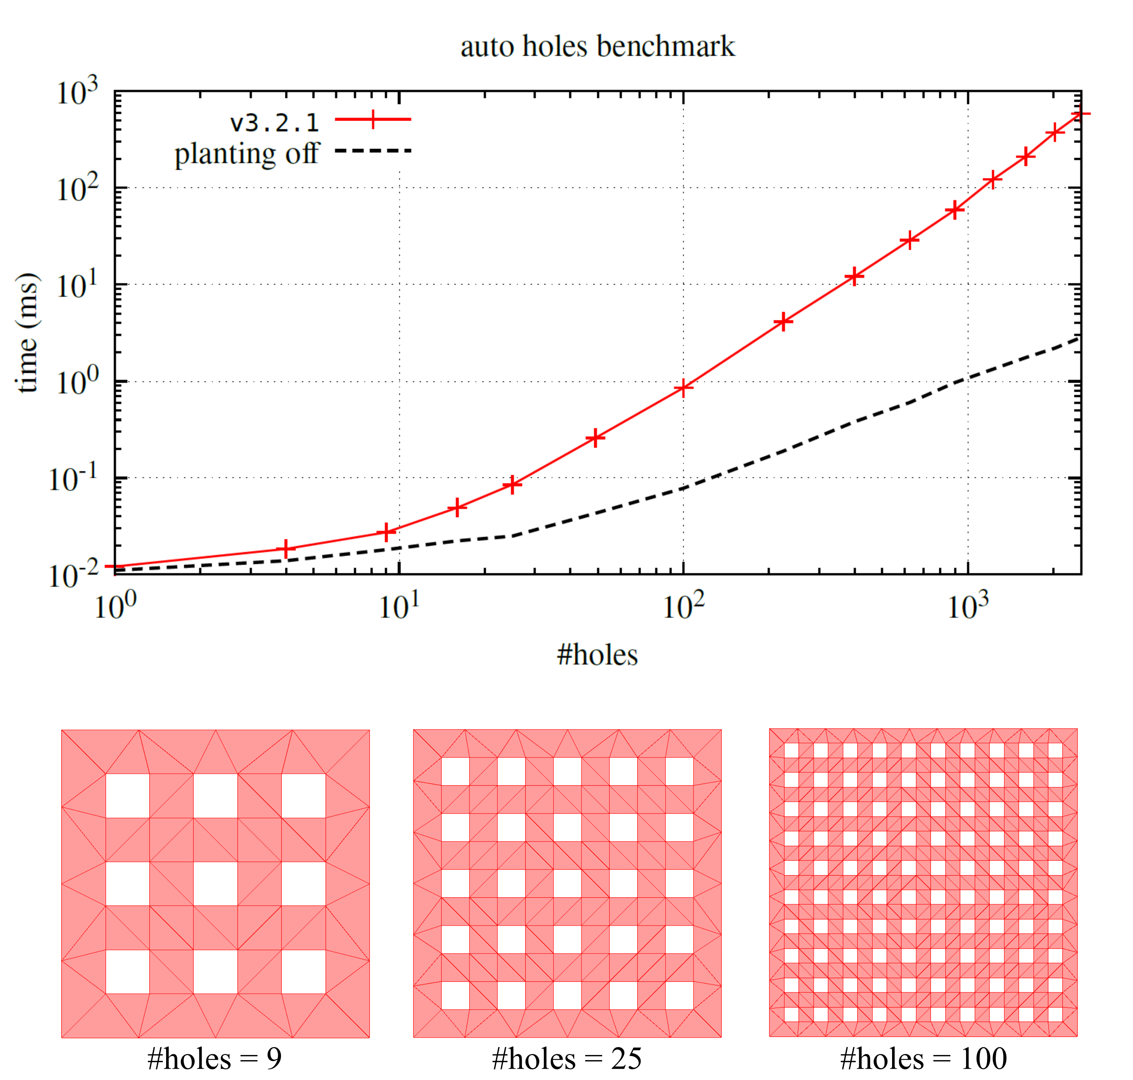
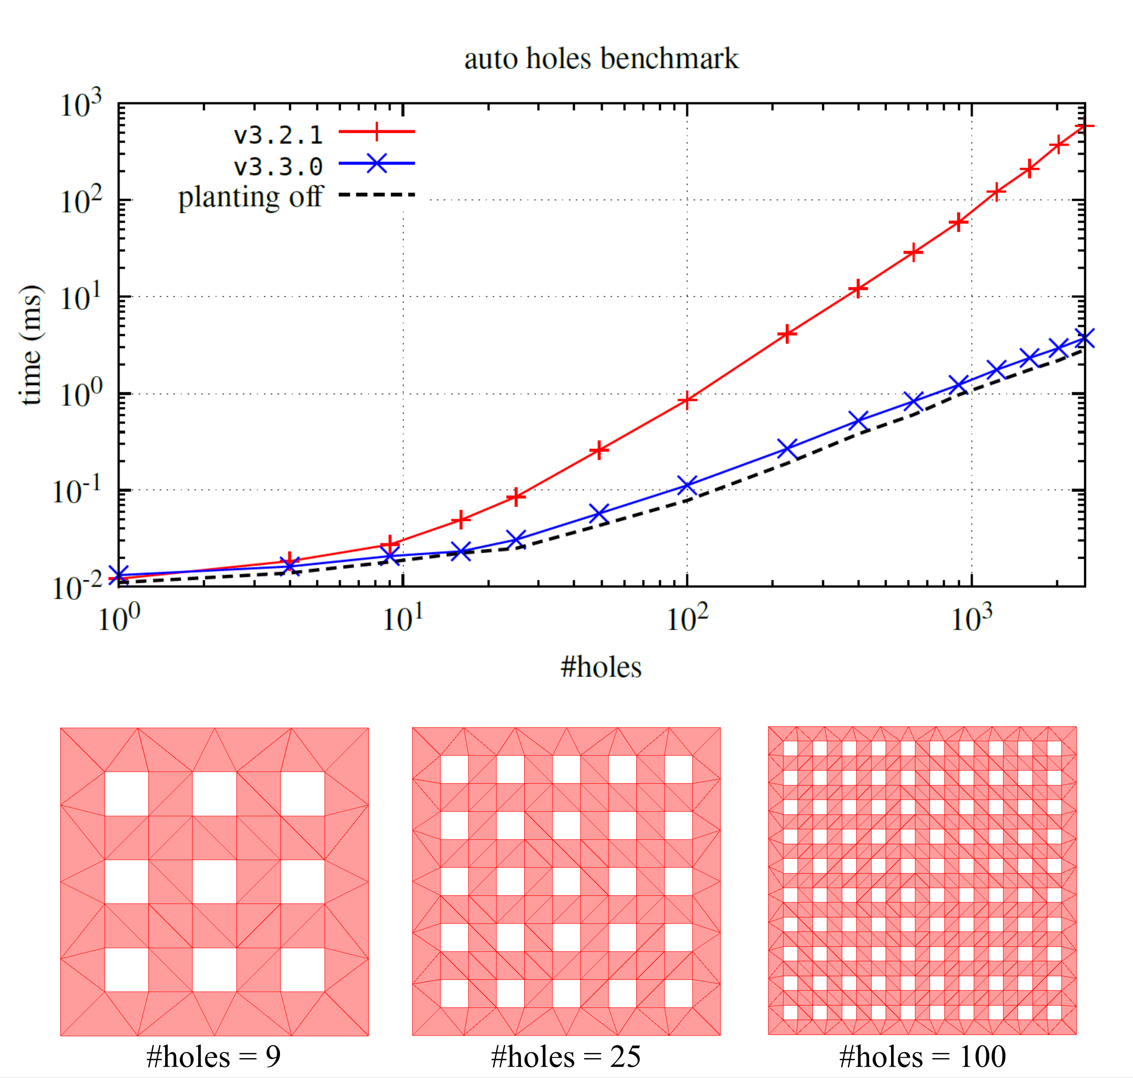
perf: faster planting holes

diff --git a/Runtime/Triangulator.cs b/Runtime/Triangulator.cs
@@ -1999,11 +1999,11 @@ namespace andywiecko.BurstTriangulator.LowLevel.Unsafe
             private NativeList<int> halfedges;
 
             private NativeArray<bool> visitedTriangles;
-            private NativeList<int> badTriangles;
             private NativeQueue<int> trianglesQueue;
             private NativeArray<T2> holes;
 
             private readonly Args args;
+            private bool anyTriangleVisited;
 
             public PlantingSeedStep(InputData<T2> input, OutputData<T2> output, Args args) : this(output, args, input.HoleSeeds) { }
 
@@ -2018,8 +2018,9 @@ namespace andywiecko.BurstTriangulator.LowLevel.Unsafe
                 this.args = args;
 
                 visitedTriangles = default;
-                badTriangles = default;
                 trianglesQueue = default;
+
+                anyTriangleVisited = false;
             }
 
             public void Execute(Allocator allocator, bool constraintsIsCreated)
@@ -2032,14 +2033,13 @@ namespace andywiecko.BurstTriangulator.LowLevel.Unsafe
                 using var _ = Markers.PlantingSeedStep.Auto();
 
                 visitedTriangles = new(triangles.Length / 3, allocator);
-                badTriangles = new(triangles.Length / 3, allocator);
                 trianglesQueue = new(allocator);
 
                 if (args.AutoHolesAndBoundary) PlantAuto(allocator);
                 if (holes.IsCreated) PlantHoleSeeds(holes);
                 if (args.RestoreBoundary) PlantBoundarySeeds();
 
-                Finish();
+                RemoveVisitedTriangles(allocator);
             }
 
             private void PlantBoundarySeeds()
@@ -2067,40 +2067,58 @@ namespace andywiecko.BurstTriangulator.LowLevel.Unsafe
                 }
             }
 
-            private void Finish()
+            private void RemoveVisitedTriangles(Allocator allocator)
             {
-                badTriangles.Sort();
-                for (int t = badTriangles.Length - 1; t >= 0; t--)
+                if (!anyTriangleVisited)
                 {
-                    var tId = badTriangles[t];
-                    triangles.RemoveAt(3 * tId + 2);
-                    triangles.RemoveAt(3 * tId + 1);
-                    triangles.RemoveAt(3 * tId + 0);
-                    RemoveHalfedge(3 * tId + 2, 0);
-                    RemoveHalfedge(3 * tId + 1, 1);
-                    RemoveHalfedge(3 * tId + 0, 2);
-                    constrainedHalfedges.RemoveAt(3 * tId + 2);
-                    constrainedHalfedges.RemoveAt(3 * tId + 1);
-                    constrainedHalfedges.RemoveAt(3 * tId + 0);
+                    return;
+                }
 
-                    for (int i = 3 * tId; i < halfedges.Length; i++)
+                // Triangles to remove are marked with -1, otherwise they are assigned with incremental id.
+                var map = new NativeArray<int>(triangles.Length / 3, allocator);
+                var count = 0;
+                for (int tId = 0; tId < visitedTriangles.Length; tId++)
+                {
+                    map[tId] = visitedTriangles[tId] ? -1 : count++;
+                }
+
+                int RemapHalfedge(int ohe)
+                {
+                    if (ohe == -1)
                     {
-                        var he = halfedges[i];
-                        if (he == -1)
-                        {
-                            continue;
-                        }
-                        halfedges[he < 3 * tId ? he : i] -= 3;
+                        return -1;
+                    }
+                    var tId = map[ohe / 3];
+                    return tId == -1 ? -1 : 3 * tId + ohe % 3;
+                }
+
+                // Reinterpret to a larger struct to make copies of whole triangles slightly more efficient
+                var constrainedHalfedges3 = constrainedHalfedges.AsArray().Reinterpret<bool3>(1);
+                var triangles3 = triangles.AsArray().Reinterpret<int3>(4);
+
+                for (int tId = 0; tId < map.Length; tId++)
+                {
+                    var tIdNew = map[tId];
+                    if (tIdNew != -1)
+                    {
+                        triangles3[tIdNew] = triangles3[tId];
+                        constrainedHalfedges3[tIdNew] = constrainedHalfedges3[tId];
+                        halfedges[3 * tIdNew + 0] = RemapHalfedge(ohe: halfedges[3 * tId + 0]);
+                        halfedges[3 * tIdNew + 1] = RemapHalfedge(ohe: halfedges[3 * tId + 1]);
+                        halfedges[3 * tIdNew + 2] = RemapHalfedge(ohe: halfedges[3 * tId + 2]);
                     }
                 }
+
+                // Trim the data to reflect removed triangles.
+                triangles.Length = 3 * count;
+                constrainedHalfedges.Length = 3 * count;
+                halfedges.Length = 3 * count;
+
+                map.Dispose();
             }
 
             private void PlantSeed(int tId)
             {
-                var visitedTriangles = this.visitedTriangles;
-                var badTriangles = this.badTriangles;
-                var trianglesQueue = this.trianglesQueue;
-
                 if (visitedTriangles[tId])
                 {
                     return;
@@ -2108,7 +2126,7 @@ namespace andywiecko.BurstTriangulator.LowLevel.Unsafe
 
                 visitedTriangles[tId] = true;
                 trianglesQueue.Enqueue(tId);
-                badTriangles.Add(tId);
+                anyTriangleVisited = true;
 
                 // Search outwards from the seed triangle and mark all triangles
                 // until we get to a constrained edge, or a previously visited triangle.
@@ -2128,7 +2146,6 @@ namespace andywiecko.BurstTriangulator.LowLevel.Unsafe
                         {
                             visitedTriangles[otherId] = true;
                             trianglesQueue.Enqueue(otherId);
-                            badTriangles.Add(otherId);
                         }
                     }
                 }
@@ -2147,17 +2164,6 @@ namespace andywiecko.BurstTriangulator.LowLevel.Unsafe
                 }
 
                 return -1;
-            }
-
-            private void RemoveHalfedge(int he, int offset)
-            {
-                var ohe = halfedges[he];
-                var o = ohe > he ? ohe - offset : ohe;
-                if (o > -1)
-                {
-                    halfedges[o] = -1;
-                }
-                halfedges.RemoveAt(he);
             }
 
             private void PlantAuto(Allocator allocator)

diff --git a/Tests/TriangulatorBenchmarkTests.cs b/Tests/TriangulatorBenchmarkTests.cs
@@ -333,14 +333,14 @@ namespace andywiecko.BurstTriangulator.Editor.Tests
             PlantingHolesCase(5, 5000),
             PlantingHolesCase(7, 5000),
             PlantingHolesCase(10, 2000),
-            PlantingHolesCase(15, 1000),
-            PlantingHolesCase(20, 200),
-            PlantingHolesCase(25, 200),
-            PlantingHolesCase(30, 100),
-            PlantingHolesCase(35, 50),
-            PlantingHolesCase(40, 50),
-            PlantingHolesCase(45, 30),
-            PlantingHolesCase(50, 20),
+            PlantingHolesCase(15, 2000),
+            PlantingHolesCase(20, 2000),
+            PlantingHolesCase(25, 2000),
+            PlantingHolesCase(30, 2000),
+            PlantingHolesCase(35, 2000),
+            PlantingHolesCase(40, 2000),
+            PlantingHolesCase(45, 2000),
+            PlantingHolesCase(50, 2000),
         };
 
         [Test, TestCaseSource(nameof(plantingAutoHolesBenchmarkTestData))]
